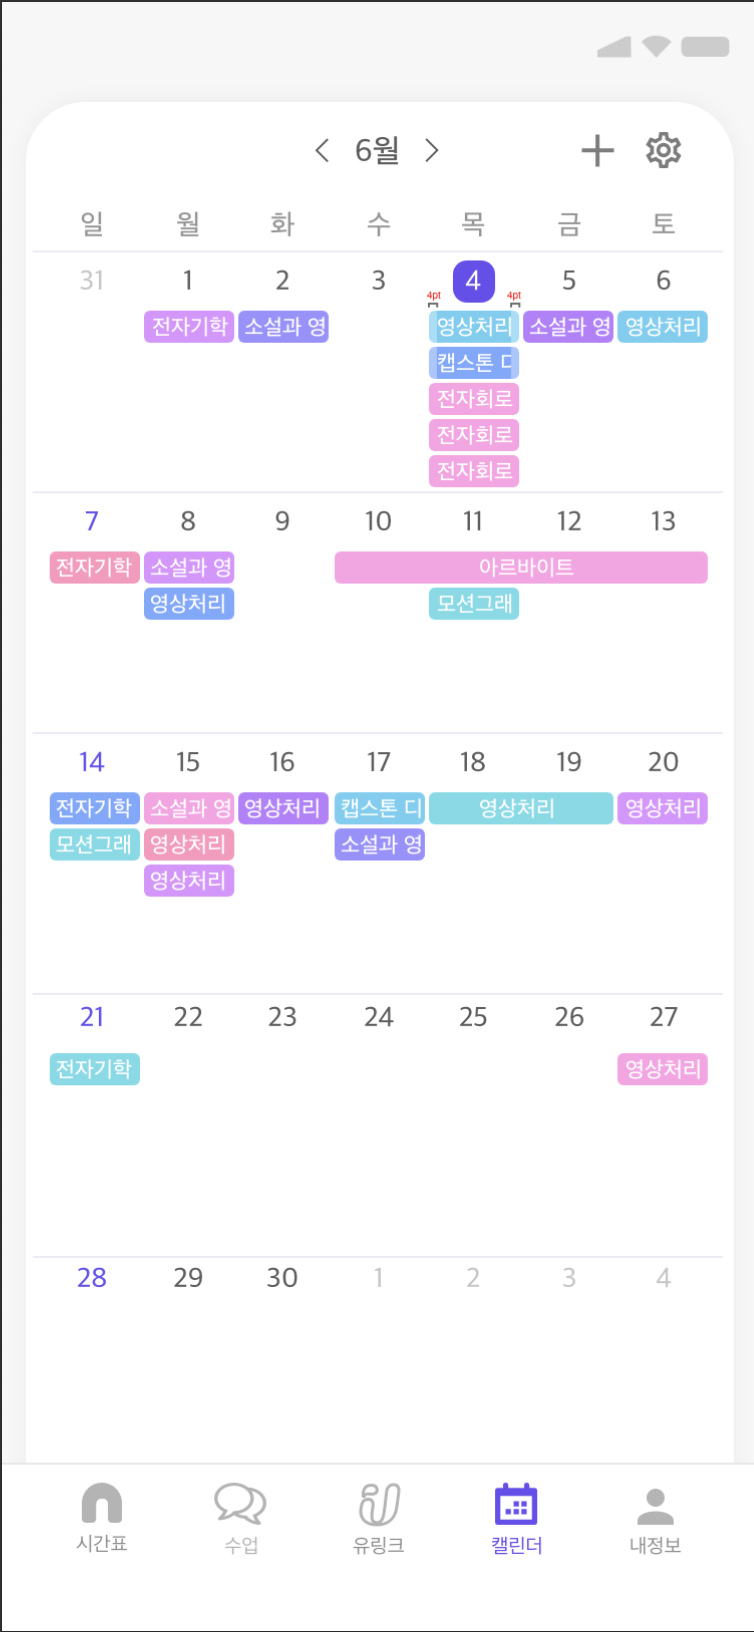
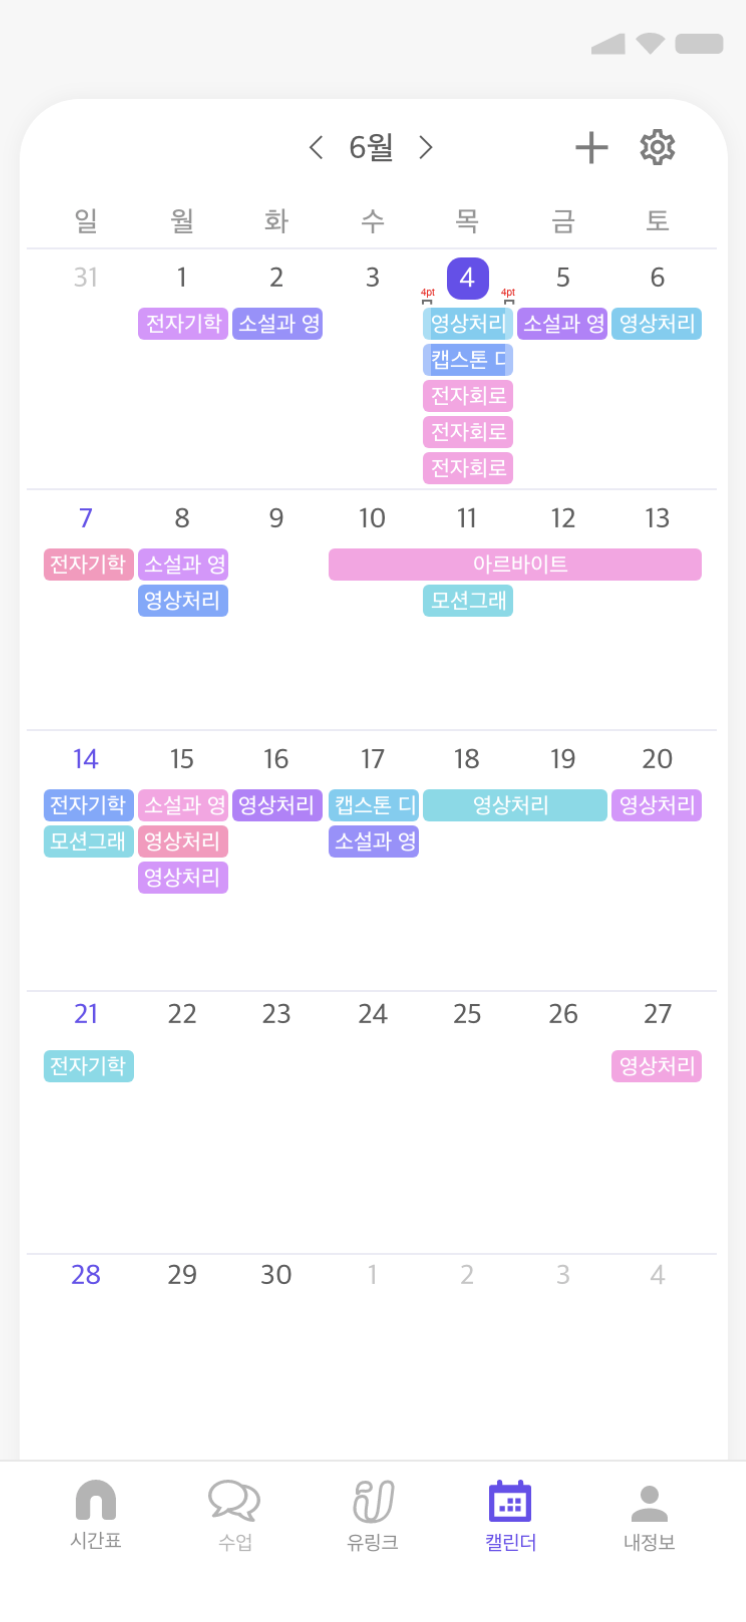
readme

diff --git a/README/se_readme.md b/README/se_readme.md
@@ -3,8 +3,8 @@
 ### 캘린더 구현
 
 - 캘린더뷰 디자인   
-  ![FSCalendar 삽질](./image/calendarDesign.png)
-
+  ![FSCalendar 삽질](./image/calendarDesign.png){: width="50%" height="50%"}
+  
 - 라이브러리 삽질  
      FSCalendar 라이브러리를 사용하려고 뜯어보았다.   
      ➡ [FSCalendar 라이브러리 github](https://github.com/WenchaoD/FSCalendar)
